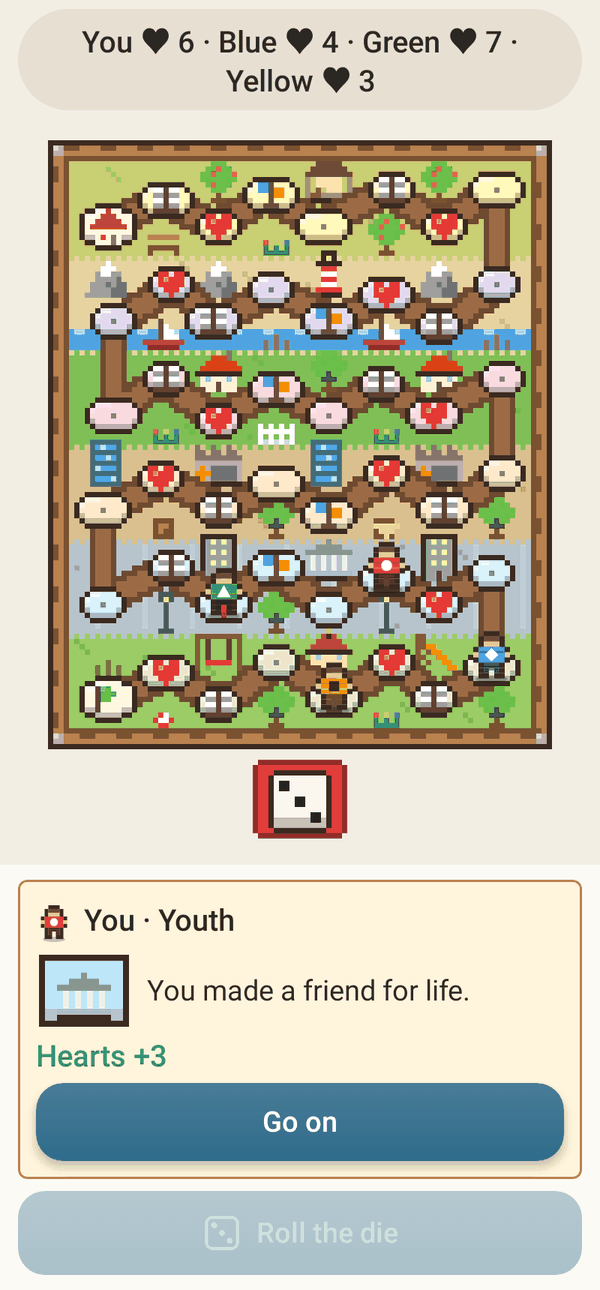
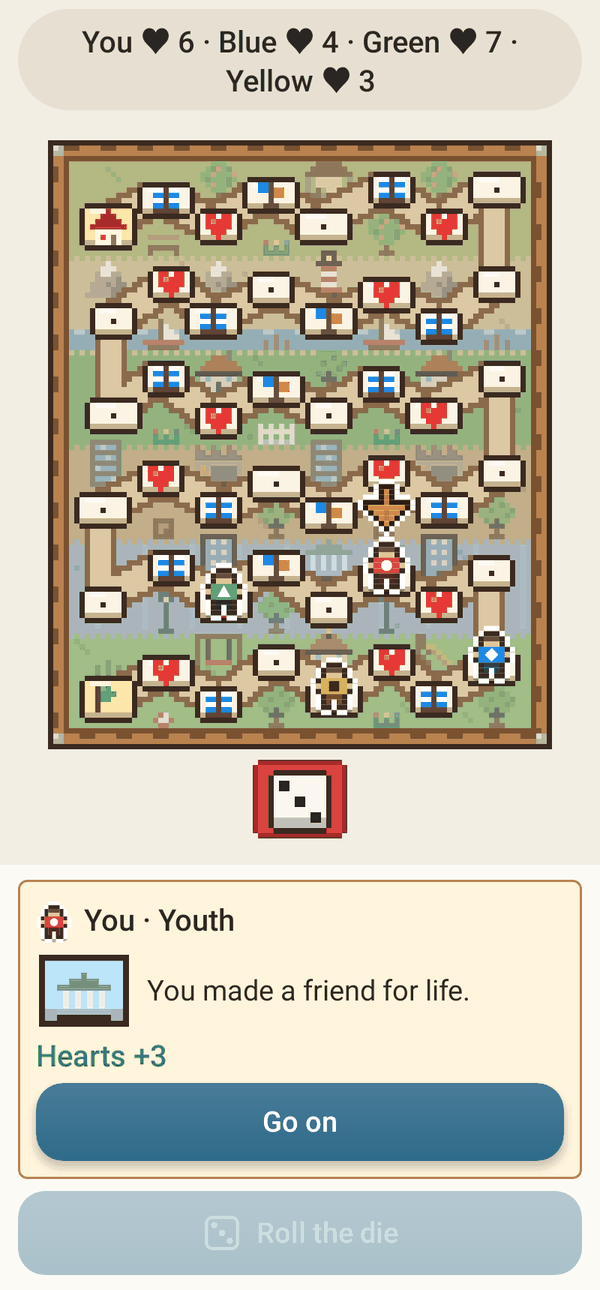
fix(trail): make the board's pawns, path and scenery easy to tell apart
On the life trail board the squares looked like part of the scenery, the
landscapes competed with the pawns, and the turn arrow was small, pale
and static, so older players could hardly read the board.

The board now has three clear layers:
- Scenery: muted ground colors, and the landscape pictures faded towards
  their ground (less saturation, less contrast), so they stay behind.
- Path and squares: one pale stone trail with a brown edge; the squares
  are lighter slabs with a dark rim laid on it, instead of pastel ovals
  of a different color from the path.
- Pawns: a light one-dot halo around each figure and a firmer shadow.

The turn arrow is a bigger amber pixel arrow with a dark edge and a light
halo (the palette highlight in high contrast), and it bobs gently,
following the movement setting (slower when gentle, still when off).
Story squares get a blue book so they read on the light slabs. Game
rules are unchanged. Adds a high-contrast screenshot of the board.

Closes #85

diff --git a/app/src/main/java/io/github/fershibli/megagames/games/trail/TrailPixels.kt b/app/src/main/java/io/github/fershibli/megagames/games/trail/TrailPixels.kt
@@ -4,6 +4,7 @@ import androidx.compose.ui.geometry.Offset
 import androidx.compose.ui.geometry.Size
 import androidx.compose.ui.graphics.Color
 import androidx.compose.ui.graphics.drawscope.DrawScope
+import androidx.compose.ui.graphics.lerp
 import io.github.fershibli.megagames.core.ColorMode
 import io.github.fershibli.megagames.games.ludo.ludoColor
 import io.github.fershibli.megagames.ui.art.PixelArt
@@ -101,20 +102,38 @@ object TrailMap {
 
 private const val INK = "o=3B2A20"
 
-/** The ground of each landscape, from childhood to the quiet years. */
+/**
+ * The ground of each landscape, from childhood to the quiet years. Soft, muted middle tones, so
+ * the light path and the bright pawns stand out on them.
+ */
 private val GROUND = listOf(
-    Color(0xFF9CCC65), // playground grass
-    Color(0xFFB7C4CC), // city pavement
-    Color(0xFFD9C08E), // sandy yard of the workshop
-    Color(0xFF7FBF55), // garden lawn
-    Color(0xFFE6D3A0), // beach sand
-    Color(0xFFC9CF73), // orchard meadow
+    Color(0xFFA3BD86), // playground grass
+    Color(0xFFAAB4BA), // city pavement
+    Color(0xFFC2AE88), // sandy yard of the workshop
+    Color(0xFF93B27E), // garden lawn
+    Color(0xFFCBBE98), // beach sand
+    Color(0xFFB4B883), // orchard meadow
 )
 
-/** The color of the squares of each stage. */
-private val SQUARE_FILL = listOf(
-    Color(0xFFE6F4D2), Color(0xFFD7F0FC), Color(0xFFFFE9C9), Color(0xFFFBD3E1), Color(0xFFE3DAF2), Color(0xFFFFF7B8),
-)
+/**
+ * The path and its squares are one trail of the same pale stone: a walkway with a dark edge, and
+ * the squares as slightly lighter slabs laid on it.
+ */
+private val SLAB_EDGE = Color(0xFF3B2A20)
+private val PATH_EDGE = Color(0xFF8A6A4A)
+private val PATH = Color(0xFFDCC8A2)
+private val SLAB = Color(0xFFFBF4E4)
+private val SLAB_SPECIAL = Color(0xFFFFE7A3)
+
+/** How far the scenery fades into its ground: the pictures stay readable but calm, behind the path. */
+private const val RECEDE = 0.42f
+
+/** [color] made calmer and closer to [ground]: less saturated, less contrast. */
+private fun recede(color: Color, ground: Color): Color {
+    val grey = color.red * 0.3f + color.green * 0.59f + color.blue * 0.11f
+    val calm = lerp(color, Color(grey, grey, grey, color.alpha), 0.35f)
+    return lerp(calm, ground, RECEDE).copy(alpha = color.alpha)
+}
 
 object TrailSprites {
     val heart = pixelArt(
@@ -126,7 +145,7 @@ object TrailSprites {
         "..r..",
     )
     val book = pixelArt(
-        "w=FFFFFF l=9E9E9E s=5D4037",
+        "w=FFFFFF l=1E88E5 s=5D4037",
         "wwsww",
         "llsll",
         "wwsww",
@@ -408,10 +427,11 @@ object TrailSprites {
         "od..do.",
         "oo...oo",
     )
-    private val people = HashMap<Pair<Color, Boolean>, PixelArt>()
+    private val people = HashMap<Triple<Color, Boolean, Color>, PixelArt>()
+    private val halos = HashMap<Pair<PixelArt, Color>, PixelArt>()
 
     fun person(color: Color, walking: Boolean, outline: Color): PixelArt = synchronized(people) {
-        people.getOrPut(color to walking) {
+        people.getOrPut(Triple(color, walking, outline)) {
             val palette = mapOf(
                 'o' to outline, 'h' to Color(0xFF6D4C41), 's' to Color(0xFFF2C29B),
                 'c' to color, 'd' to color.darker(0.45f),
@@ -420,32 +440,51 @@ object TrailSprites {
         }
     }
 
+    /** The outline of [art] in one [color]: drawn a dot around a pawn, it lifts it off the board. */
+    fun halo(art: PixelArt, color: Color): PixelArt = synchronized(halos) {
+        halos.getOrPut(art to color) { art.recolored { color } }
+    }
+
+    /** The arrow over the pawn whose turn it is: bold, with a dark edge, pointing down. */
+    private val ARROW = listOf(
+        "...ooo...",
+        "...oyo...",
+        "...o#o...",
+        "oooo#oooo",
+        "oyyyyyyyo",
+        ".oyy#yyo.",
+        "..oy#yo..",
+        "...oyo...",
+        "....o....",
+    )
+    private val arrows = HashMap<Pair<Color, Color>, PixelArt>()
+
+    fun arrow(fill: Color, edge: Color): PixelArt = synchronized(arrows) {
+        arrows.getOrPut(fill to edge) { pixelArt(ARROW, mapOf('o' to edge, 'y' to fill, '#' to fill.darker(0.18f))) }
+    }
+
+    const val ARROW_W = 9
+    const val ARROW_H = 9
+
     const val PERSON_W = 7
     const val PERSON_H = 9
 }
 
-/** An oval square of the path, built once per size and color. */
-private val ovals = HashMap<String, PixelArt>()
+/** A square of the path: a stone slab with rounded corners, built once per size and color. */
+private val slabs = HashMap<String, PixelArt>()
 
-private fun oval(w: Int, h: Int, fill: Color, rim: Color, shade: Color, shine: Color): PixelArt {
+private fun slab(w: Int, h: Int, fill: Color, rim: Color, shade: Color, shine: Color): PixelArt {
     val key = "$w $h ${fill.value} ${rim.value}"
-    return synchronized(ovals) {
-        ovals.getOrPut(key) {
-            val inside = Array(h) { y ->
-                BooleanArray(w) { x ->
-                    val dx = (x + 0.5f - w / 2f) / (w / 2f)
-                    val dy = (y + 0.5f - h / 2f) / (h / 2f)
-                    dx * dx + dy * dy <= 1.08f
-                }
-            }
-            fun at(x: Int, y: Int) = x in 0 until w && y in 0 until h && inside[y][x]
+    return synchronized(slabs) {
+        slabs.getOrPut(key) {
+            fun corner(x: Int, y: Int) = (x == 0 || x == w - 1) && (y == 0 || y == h - 1)
             val rows = List(h) { y ->
                 String(CharArray(w) { x ->
                     when {
-                        !at(x, y) -> '.'
-                        !at(x - 1, y) || !at(x + 1, y) || !at(x, y - 1) || !at(x, y + 1) -> 'o'
-                        !at(x, y + 2) -> 'd'
-                        !at(x, y - 2) && x < w / 2 -> 'l'
+                        corner(x, y) -> '.'
+                        x == 0 || x == w - 1 || y == 0 || y == h - 1 -> 'o'
+                        y == h - 2 -> 'd'
+                        y == 1 && x in 2..w / 2 -> 'l'
                         else -> 'f'
                     }
                 })
@@ -453,6 +492,13 @@ private fun oval(w: Int, h: Int, fill: Color, rim: Color, shade: Color, shine: C
             pixelArt(rows, mapOf('o' to rim, 'f' to fill, 'd' to shade, 'l' to shine))
         }
     }
+}
+
+/** Scenery pictures faded into the ground of their landscape (see [recede]), built once each. */
+private val receded = HashMap<Pair<PixelArt, Int>, PixelArt>()
+
+private fun recededArt(art: PixelArt, stage: Int): PixelArt = synchronized(receded) {
+    receded.getOrPut(art to stage) { art.recolored { recede(it, GROUND[stage]) } }
 }
 
 // ---------------------------------------------------------------------------------------------
@@ -509,12 +555,13 @@ fun DrawScope.drawTrailBoard(v: TrailView, p: Palette) {
     val w = TrailMap.WIDTH
     val h = TrailMap.HEIGHT
     val f = TrailMap.FRAME
-    // Landscapes, from the bottom up, each with a ragged edge into the next one.
+    // Three layers, from the back: the landscapes (muted, low contrast), the path with its
+    // squares (pale stone with a dark edge) and, drawn later, the pawns (bright, with a light halo).
     for (stage in Stage.entries.indices) {
         val top = TrailMap.bandTop(stage)
         val ground = groundOf(stage, p)
         dots(v, f, top, w - 2 * f, TrailMap.BAND, ground)
-        val speck = ground.darker(0.12f)
+        val speck = ground.darker(0.07f)
         for (n in 0 until 16) {
             val x = f + 1 + (n * 37 + stage * 11) % (w - 2 * f - 2)
             val y = top + 1 + (n * 7 + stage * 5) % (TrailMap.BAND - 2)
@@ -522,12 +569,12 @@ fun DrawScope.drawTrailBoard(v: TrailView, p: Palette) {
         }
         if (stage == 4) {
             // The sea along the bottom of the travel band, with little waves.
-            dots(v, f, top + 14, w - 2 * f, 4, c.water)
-            for (x in f + 1 until w - f step 6) dots(v, x, top + 14, 2, 1, c.waterLight)
+            dots(v, f, top + 14, w - 2 * f, 4, recede(c.water, ground))
+            for (x in f + 1 until w - f step 6) dots(v, x, top + 14, 2, 1, recede(c.waterLight, ground))
         }
         if (stage == 1) {
             // The pavement of the city, in slabs.
-            val line = ground.lighter(0.25f)
+            val line = ground.lighter(0.12f)
             for (x in f + 5 until w - f step 9) dots(v, x, top + 1, 1, TrailMap.BAND - 2, line)
         }
         if (stage < Stage.entries.size - 1) {
@@ -535,32 +582,34 @@ fun DrawScope.drawTrailBoard(v: TrailView, p: Palette) {
             for (x in f until w - f step 2) dots(v, x, top, 1, 1, above)
         }
     }
-    // The pictures of each landscape, in the corners the path leaves free.
+    // The pictures of each landscape, in the corners the path leaves free, faded into the ground.
     for (stage in Stage.entries.indices) for (col in 0 until TrailMap.PER_BAND) {
         val (x, bottom) = TrailMap.pocket(stage, col) ?: continue
         val art = TrailSprites.scenery[stage][col]
         if (art != null) {
-            standing(v, art, x, bottom, p)
+            standing(v, recededArt(art, stage), x, bottom, p)
         } else {
-            val tuft = groundOf(stage, p).darker(0.3f)
+            val tuft = groundOf(stage, p).darker(0.15f)
             dots(v, x - 2, bottom - 2, 1, 2, tuft)
             dots(v, x, bottom - 3, 1, 3, tuft)
             dots(v, x + 2, bottom - 2, 1, 2, tuft)
         }
     }
-    // The path: a dirt road under the squares.
+    // The path: a pale stone walkway with a dark edge, the same stone as the squares.
     val points = TrailMap.POINTS
-    for (i in 0 until Trail.FINISH) road(v, points[i], points[i + 1], 5, c.soilDark)
-    for (i in 0 until Trail.FINISH) road(v, points[i], points[i + 1], 3, c.soil)
-    // The squares, each with its mark.
-    val rim = if (p.strongOutlines) Color.Black else c.outline
+    val rim = if (p.strongOutlines) Color.Black else PixelColors.adapt(SLAB_EDGE, p)
+    val edge = if (p.strongOutlines) Color.Black else PixelColors.adapt(PATH_EDGE, p)
+    val path = PixelColors.adapt(PATH, p)
+    for (i in 0 until Trail.FINISH) road(v, points[i], points[i + 1], 6, edge)
+    for (i in 0 until Trail.FINISH) road(v, points[i], points[i + 1], 4, path)
+    // The squares: lighter slabs laid on the walkway, each with its mark.
     for (i in 0 until Trail.SQUARES) {
         val (x, y) = points[i]
         val (sw, sh) = TrailMap.squareSize(i)
         val special = i == 0 || i == Trail.FINISH
-        val fill = PixelColors.adapt(if (special) Color(0xFFFFF8E1) else SQUARE_FILL[Trail.stage(i).ordinal], p)
+        val fill = PixelColors.adapt(if (special) SLAB_SPECIAL else SLAB, p)
         // Already in the palette's colors: drawn as they are.
-        oval(sw, sh, fill, rim, fill.darker(0.18f), fill.lighter(0.5f)).draw(this, v.left + (x - sw / 2) * v.px, v.top + (y - sh / 2) * v.px, v.px)
+        slab(sw, sh, fill, rim, path.darker(0.08f), fill.lighter(0.6f)).draw(this, v.left + (x - sw / 2) * v.px, v.top + (y - sh / 2) * v.px, v.px)
         val mark = when (Trail.square(i)) {
             Square.HEART -> TrailSprites.heart
             Square.STORY -> TrailSprites.book
@@ -572,7 +621,7 @@ fun DrawScope.drawTrailBoard(v: TrailView, p: Palette) {
         if (mark != null) {
             sprite(v, mark, (x - mark.width / 2).toFloat(), (y - mark.height / 2).toFloat(), p)
         } else {
-            dots(v, x, y, 1, 1, fill.darker(0.35f))
+            dots(v, x, y, 1, 1, rim)
         }
     }
     drawFrame(v, p, c)
@@ -615,12 +664,15 @@ private fun DrawScope.drawFrame(v: TrailView, p: Palette, c: PixelColors) {
 /** The symbol of each pawn color (Ludo's), so color is never the only cue. */
 private val SYMBOLS = intArrayOf(0, 2, 1, 3)
 
+/** The arrow's own color: a warm amber that reads on light and dark landscapes alike. */
+private val ARROW_FILL = Color(0xFFFFB300)
+
 /**
  * A pawn: a little person of color [color] (a Ludo color index) standing with its feet at
- * [foot], [scale] times the board's dots. [hop] lifts it while it walks; [turn] puts an arrow
- * over its head.
+ * [foot], [scale] times the board's dots. [hop] lifts it while it walks; [turn] puts a bold arrow
+ * over its head, raised by [bob] dots (the arrow's gentle up-and-down, 0 when movement is off).
  */
-fun DrawScope.drawTrailPerson(v: TrailView, foot: Offset, p: Palette, color: Int, scale: Float = 1f, walking: Boolean = false, turn: Boolean = false) {
+fun DrawScope.drawTrailPerson(v: TrailView, foot: Offset, p: Palette, color: Int, scale: Float = 1f, walking: Boolean = false, turn: Boolean = false, bob: Float = 0f) {
     val px = v.px * scale
     val outline = if (p.strongOutlines) Color.Black else Color(0xFF3B2A20)
     val fill = ludoColor(p, color)
@@ -628,16 +680,28 @@ fun DrawScope.drawTrailPerson(v: TrailView, foot: Offset, p: Palette, color: Int
     val left = foot.x - TrailSprites.PERSON_W * px / 2
     val top = foot.y - TrailSprites.PERSON_H * px
     // A soft shadow on the ground.
-    drawOval(Color.Black.copy(alpha = 0.22f), Offset(foot.x - 3 * px, foot.y - px * 0.6f), Size(6 * px, px * 1.4f))
+    drawOval(Color.Black.copy(alpha = 0.3f), Offset(foot.x - 3.5f * px, foot.y - px * 0.7f), Size(7 * px, px * 1.6f))
+    // A light halo a dot around the figure, so the pawn stands out from the board behind it.
+    val haloColor = if (p.isDark && !p.strongOutlines) Color(0xFFF2EEE6) else Color.White
+    val halo = TrailSprites.halo(art, haloColor)
+    halo.draw(this, left - px, top, px)
+    halo.draw(this, left + px, top, px)
+    halo.draw(this, left, top - px, px)
+    halo.draw(this, left, top + px, px)
     art.draw(this, left, top, px)
     val mark = if (fill.red * 0.3f + fill.green * 0.59f + fill.blue * 0.11f > 0.5f) Color.Black.copy(alpha = 0.75f) else Color.White
     drawSymbol(SYMBOLS[color], Offset(foot.x, top + 4.5f * px), px * 2.6f, mark)
     if (turn) {
-        val arrow = p.highlight
-        val y = top - 3.5f * px
-        drawRect(arrow, Offset(foot.x - 2.5f * px, y), Size(5 * px, px))
-        drawRect(arrow, Offset(foot.x - 1.5f * px, y + px), Size(3 * px, px))
-        drawRect(arrow, Offset(foot.x - 0.5f * px, y + 2 * px), Size(px, px))
+        val fillColor = if (p.mode == ColorMode.HIGH_CONTRAST) p.highlight else ARROW_FILL
+        val arrow = TrailSprites.arrow(fillColor, if (p.strongOutlines) Color.Black else Color(0xFF2B1D14))
+        val arrowTop = top - (TrailSprites.ARROW_H + 2f) * px - kotlin.math.round(bob * px)
+        val arrowLeft = foot.x - TrailSprites.ARROW_W * px / 2
+        val ring = TrailSprites.halo(arrow, haloColor)
+        ring.draw(this, arrowLeft - px, arrowTop, px)
+        ring.draw(this, arrowLeft + px, arrowTop, px)
+        ring.draw(this, arrowLeft, arrowTop - px, px)
+        ring.draw(this, arrowLeft, arrowTop + px, px)
+        arrow.draw(this, arrowLeft, arrowTop, px)
     }
 }
 

diff --git a/app/src/main/java/io/github/fershibli/megagames/games/trail/TrailGame.kt b/app/src/main/java/io/github/fershibli/megagames/games/trail/TrailGame.kt
@@ -18,7 +18,12 @@ import androidx.compose.material3.MaterialTheme
 import androidx.compose.material3.Text
 import androidx.compose.runtime.Composable
 import androidx.compose.animation.core.Animatable
+import androidx.compose.animation.core.FastOutSlowInEasing
 import androidx.compose.animation.core.LinearEasing
+import androidx.compose.animation.core.RepeatMode
+import androidx.compose.animation.core.animateFloat
+import androidx.compose.animation.core.infiniteRepeatable
+import androidx.compose.animation.core.rememberInfiniteTransition
 import androidx.compose.animation.core.tween
 import androidx.compose.runtime.LaunchedEffect
 import androidx.compose.runtime.mutableStateListOf
@@ -60,6 +65,7 @@ import io.github.fershibli.megagames.ui.theme.LocalSettings
 import io.github.fershibli.megagames.core.Motion
 import io.github.fershibli.megagames.ui.theme.currentMotion
 import io.github.fershibli.megagames.ui.theme.currentPace
+import io.github.fershibli.megagames.ui.theme.swing
 import io.github.fershibli.megagames.ui.theme.wait
 import kotlin.random.Random
 
@@ -77,6 +83,10 @@ private const val END_PAUSE = 1200L
 private const val HOP = 300L
 private const val TUMBLE = 90L
 private const val TUMBLES = 7
+
+/** The turn arrow's slow up-and-down: one way in this many milliseconds, by this many dots. */
+private const val BOB = 900
+private const val BOB_DOTS = 2f
 
 /** Pawn colors by seat (Ludo's red, blue, green and yellow), each with its own symbol. */
 private val SEAT_COLORS = intArrayOf(0, 3, 1, 2)
@@ -110,6 +120,12 @@ private fun TrailScreen(state: MutableState<TrailState>, host: GameHost) {
     var tumble by remember { mutableIntStateOf(0) }
     var hopFrom by remember { mutableStateOf<List<Int>?>(null) }
     val hop = remember { Animatable(0f) }
+    // The arrow over the pawn to play bobs gently, slower with gentle movement and still when off.
+    val bob = rememberInfiniteTransition(label = "trail-arrow").animateFloat(
+        0f, motion.swing(BOB_DOTS),
+        infiniteRepeatable(tween((BOB * motion.duration).toInt().coerceAtLeast(1), easing = FastOutSlowInEasing), RepeatMode.Reverse),
+        label = "bob",
+    )
     LaunchedEffect(s.die, s.positions) {
         hopFrom = null
         if (s.die != 0 && seenDie == 0 && motion != Motion.NONE) {
@@ -224,7 +240,7 @@ private fun TrailScreen(state: MutableState<TrailState>, host: GameHost) {
                     feet += seat to hopFoot(v, a, b.coerceIn(0, Trail.FINISH), hop.value)
                 }
                 for ((seat, foot) in feet.sortedBy { it.second.y }) {
-                    drawTrailPerson(v, foot, p, SEAT_COLORS[seat], pawnScale, walking = seat in walking && hop.value in 0.25f..0.75f, turn = seat == s.turn && !s.over)
+                    drawTrailPerson(v, foot, p, SEAT_COLORS[seat], pawnScale, walking = seat in walking && hop.value in 0.25f..0.75f, turn = seat == s.turn && !s.over, bob = bob.value)
                 }
                 // The die, under the board, on a mat of the color of the seat to play.
                 val face = if (tumble != 0) kotlin.math.abs(tumble) else s.die.takeIf { it > 0 } ?: 1

diff --git a/app/src/test/java/io/github/fershibli/megagames/ScreenshotTest.kt b/app/src/test/java/io/github/fershibli/megagames/ScreenshotTest.kt
@@ -321,6 +321,7 @@ class ScreenshotTest {
     @Test fun trail() = shot("game_trail") { GameContent(GameId.TRAIL, trailHost()) }
     @Test fun trailPt() = shot("game_trail_pt", Settings(language = io.github.fershibli.megagames.core.AppLanguage.PORTUGUESE)) { GameContent(GameId.TRAIL, trailHost(choice = true)) }
     @Test fun trailDark() = shot("game_trail_dark", Settings(darkMode = true)) { GameContent(GameId.TRAIL, trailHost(choice = true)) }
+    @Test fun trailHighContrast() = shot("game_trail_high_contrast", Settings(colorMode = io.github.fershibli.megagames.core.ColorMode.HIGH_CONTRAST)) { GameContent(GameId.TRAIL, trailHost()) }
 
     /** Four pawns along the way, with a story (or a crossroads) waiting for you. */
     private fun trailHost(choice: Boolean = false): GameHost {

diff --git a/CHANGELOG.md b/CHANGELOG.md
@@ -83,6 +83,7 @@ All notable changes to this project are documented here. The format follows [Kee
 - **Farm in pixel art**: the field and the animals are now one isometric pixel-art farm, with the house, the barn, trees, a lane, the fenced paddock, and a sky with clouds and a sun (a moon and stars in dark mode). Crops show how far they have grown, ripe ones sparkle, a drop marks the beds that can be watered and a bubble shows what each animal has waiting. Tap a bed or an animal as before; pinch to see the farm bigger. Orders and the barn use the same pixel pictures.
 - Pastimes (the pet, the farm) no longer clear the game in progress, and their settings have no "New game".
 - The app is now called **Mili Games** and its package is `io.github.fershibli.miligames`. Android sees it as a different app: uninstall the previous version (the saved game is lost once) and install this one; later versions update normally. The release key is the same.
+- **Life trail is easier to read**: the board now has three clear layers. The landscapes are calmer and softer, so they stay in the background; the path and its squares are one pale stone trail with a dark edge, the squares as lighter slabs on it; and the pawns are bright with a white outline that lifts them off the board. The arrow over the pawn whose turn it is is bigger, amber with a dark edge, and gently bobs up and down (it stays still when animations are off).
 
 ## [1.0.0] - 2026-10-19
 
